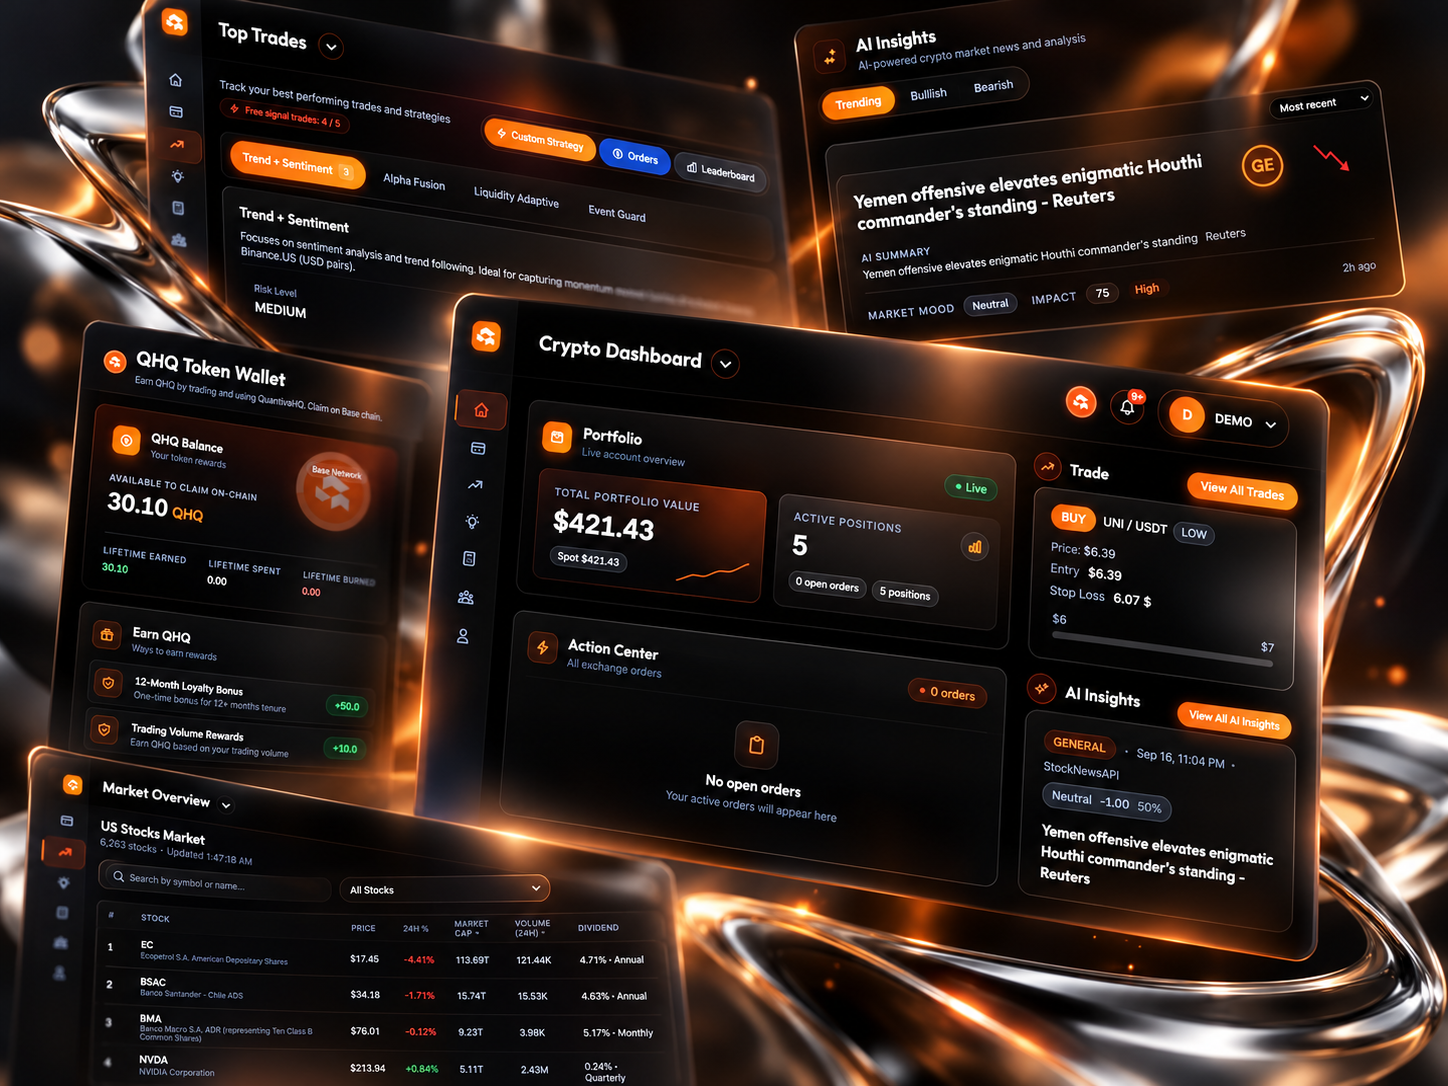
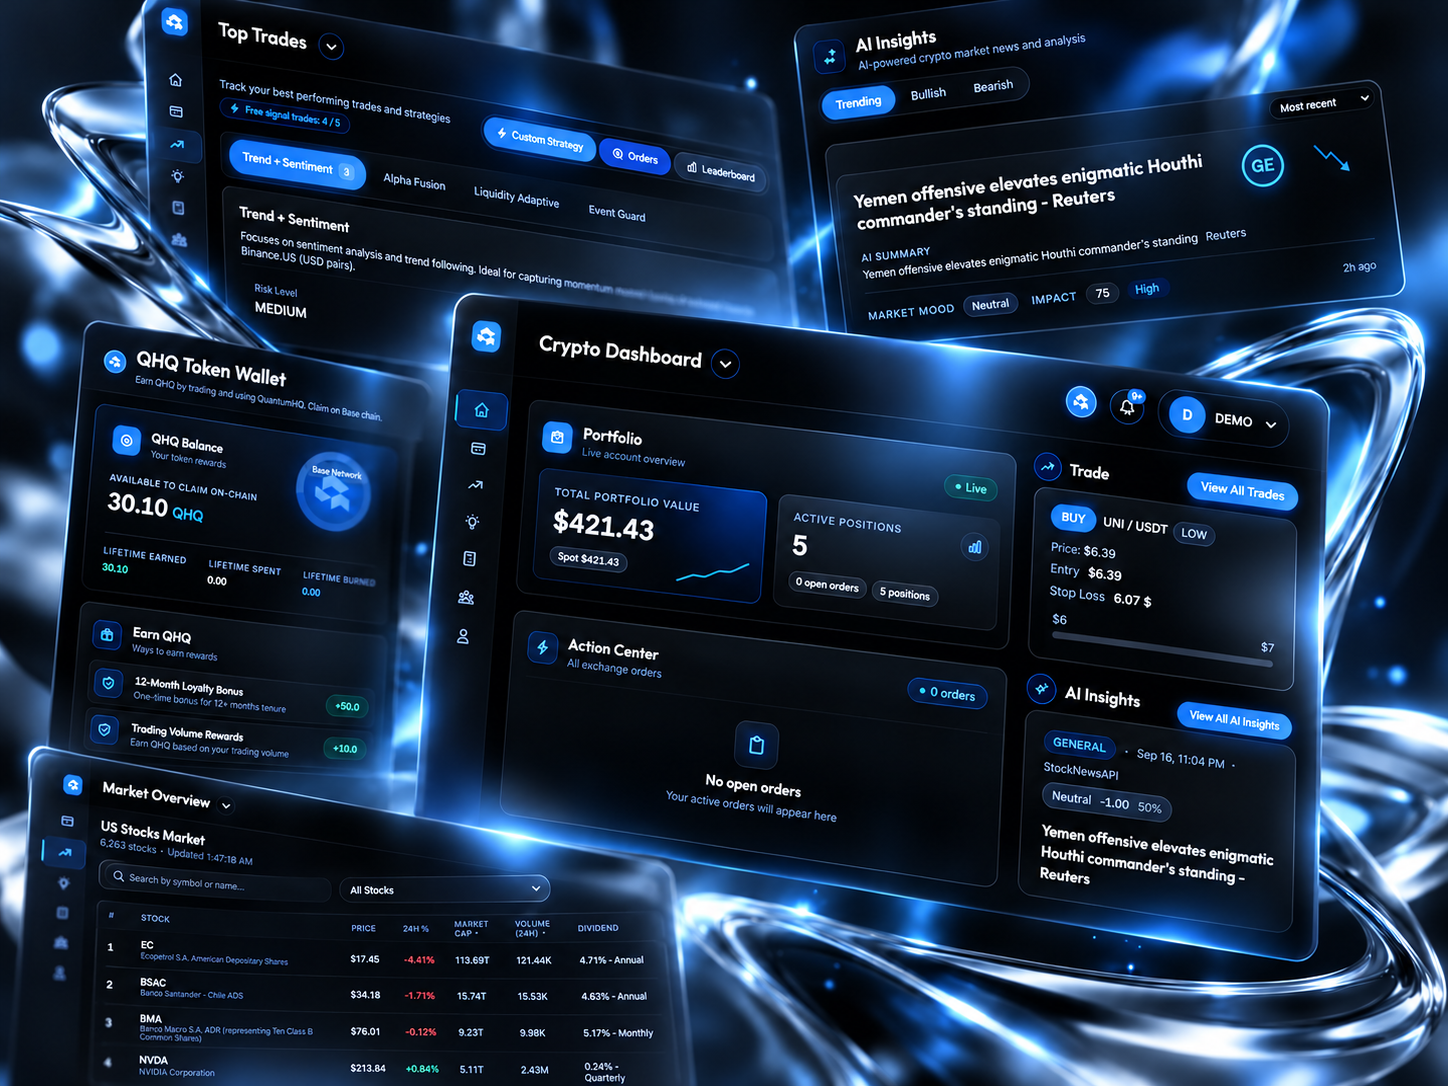
Fixed some issues on work section in home page

diff --git a/src/lib/work/rootCardsScene.js b/src/lib/work/rootCardsScene.js
@@ -33,13 +33,15 @@ const CAMERA_FOV = 55;
 const CAMERA_OPEN_FOV = 52;
 const CAMERA_FOV_TRANSITION_SPEED = 5;
 
-const CAMERA_START_Y = 8.9;
-// Stop on the seventh and final card: its Y (FIRST_CARD_Y - 6 * CARD_Y_GAP)
-// and orbit angle, offset like the first card is from the camera start.
-const CAMERA_END_Y = 3.75;
+// The camera starts just above the first card and stops on the last one,
+// offset like the first card is from the camera start. Both follow the card
+// spacing (see applyCardSpacing), so they're set on resize.
+const CAMERA_START_OFFSET = 0.1;
+const CAMERA_END_OFFSET = 0.05;
+let cameraStartY = 8.9;
+let cameraEndY = 3.75;
 
 const CAMERA_START_ANGLE = 0.25;
-const CAMERA_END_ANGLE = 3.79;
 
 const CAMERA_BASE_RADIUS = 12;
 
@@ -54,7 +56,15 @@ const CARD_DISTANCE = 8.0;
 const CARD_HOVER_LIFT = 0.32;
 const CARD_HOVER_TILT = 0.05;
 
+// Vertical gap between cards along the root. Landscape keeps the original
+// tight spiral; portrait screens see far more height (the FOV widens to keep a
+// card in frame), so the cards spread out to fill it, with the previous and
+// next cards showing above and below the current one.
 const CARD_Y_GAP = 0.85;
+const CARD_Y_GAP_PORTRAIT = 2.4;
+/** Aspect (width / height) at which the portrait spacing is fully applied. */
+const PORTRAIT_ASPECT = 0.5;
+let cardYGap = CARD_Y_GAP;
 
 const FIRST_CARD_Y = 8.8;
 
@@ -63,6 +73,12 @@ const CARD_BASE_ANGLE =
 
 const CARD_ANGLE_DIFFERENCE =
   THREE.MathUtils.degToRad(34);
+
+// End looking straight down the last card's orbit angle, so the closing hold
+// (WORK_END_HOLD in IntroExperience) settles with that card centred.
+const CAMERA_END_ANGLE =
+  CARD_BASE_ANGLE +
+  (CARD_COUNT - 1) * CARD_ANGLE_DIFFERENCE;
 
 const CARD_TILT_X =
   THREE.MathUtils.degToRad(0);
@@ -1123,7 +1139,7 @@ const cardData =
 
       y:
         FIRST_CARD_Y -
-        CARD_Y_GAP *
+        cardYGap *
         index,
 
       title:
@@ -1312,14 +1328,21 @@ let smoothScroll =
 // GET SCROLL PROGRESS
 // ======================================================
 
-function updateCamera() {
+// Same easing as the original 0.055-per-frame at 60fps, but by elapsed time,
+// so slower devices don't trail further behind the scroll.
+const CAMERA_EASE_PER_60FPS_FRAME = 0.055;
+let previousCameraTime = 0;
+
+function updateCamera(elapsed = previousCameraTime) {
+  const frames = Math.min(Math.max(elapsed - previousCameraTime, 0), 0.1) * 60;
+  previousCameraTime = elapsed;
 
   smoothScroll +=
     (
       targetScroll -
       smoothScroll
     ) *
-    0.055;
+    (1 - Math.pow(1 - CAMERA_EASE_PER_60FPS_FRAME, frames));
 
 
   const angle =
@@ -1343,8 +1366,8 @@ function updateCamera() {
 
   const cameraY =
     THREE.MathUtils.lerp(
-      CAMERA_START_Y,
-      CAMERA_END_Y,
+      cameraStartY,
+      cameraEndY,
       smoothScroll
     );
 
@@ -1528,8 +1551,20 @@ function applyViewOffset() {
   }
 }
 
+applyCardSpacing(window.innerWidth / Math.max(1, window.innerHeight));
+
+/** Spreads the cards (and the camera's travel) for the screen's shape. */
+function applyCardSpacing(aspect) {
+  const portrait = THREE.MathUtils.smoothstep(1 - aspect, 0, 1 - PORTRAIT_ASPECT);
+  cardYGap = THREE.MathUtils.lerp(CARD_Y_GAP, CARD_Y_GAP_PORTRAIT, portrait);
+  cardPivots.forEach((item, index) => { item.pivot.position.y = FIRST_CARD_Y - cardYGap * index; });
+  cameraStartY = FIRST_CARD_Y + CAMERA_START_OFFSET;
+  cameraEndY = FIRST_CARD_Y - cardYGap * (CARD_COUNT - 1) + CAMERA_END_OFFSET;
+}
+
 function resize(width, height) {
   viewSize = { width, height };
+  applyCardSpacing(width / Math.max(1, height));
   camera.aspect = width / Math.max(1, height);
   camera.updateProjectionMatrix();
   applyViewOffset();
@@ -1824,7 +1859,7 @@ function animate() {
     previousCardTime = elapsed;
     previousFovTime = elapsed;
   } else {
-    updateCamera();
+    updateCamera(elapsed);
     updateCards(elapsed);
     updateActiveCard();
     updateCameraFov(elapsed);

diff --git a/src/components/IntroExperience.tsx b/src/components/IntroExperience.tsx
@@ -33,6 +33,14 @@ const responsive = (width: number) => width < 768
   : width < 1024 ? { strength: 0.8, duration: 1.5 } : { strength: 1, duration: 1.7 };
 
 /** One persistent canvas, renderer and visual tick for every visual section. */
+/**
+ * Share of Work's pinned scroll kept as a closing hold: the camera finishes on
+ * the last card before this, so its smoothing settles and the card sits
+ * centred before Stats starts sliding over it.
+ */
+const WORK_END_HOLD = 0.15;
+const workCameraProgress = (pin: number) => Math.min(1, pin / (1 - WORK_END_HOLD));
+
 /** How fast Work drifts up (relative to the page) as Stats slides over it. */
 const WORK_PARALLAX = 0.35;
 
@@ -200,9 +208,9 @@ export default function IntroExperience() {
         start: "top top",
         end: WORK_SCROLL_LENGTH,
         scrub: true,
-        onUpdate: self => workScene?.setProgress(self.progress),
+        onUpdate: self => workScene?.setProgress(workCameraProgress(self.progress)),
       });
-      workScene.setProgress(workTrigger.progress);
+      workScene.setProgress(workCameraProgress(workTrigger.progress));
       workScene.setVisible(false);
       ScrollTrigger.refresh();
     });
